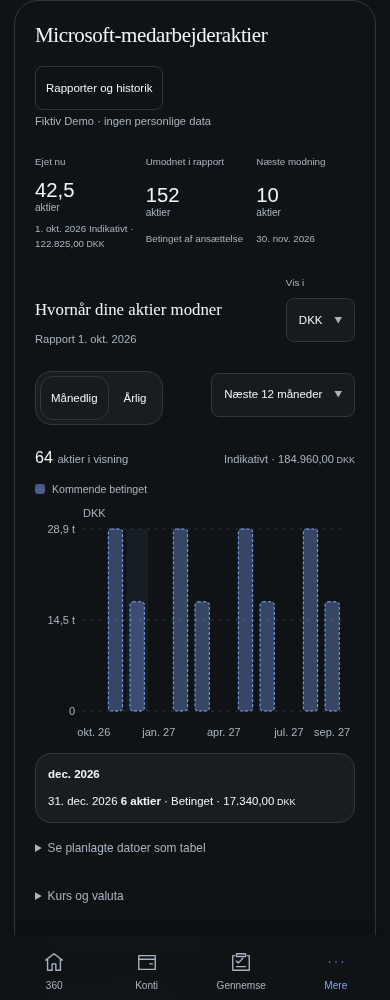
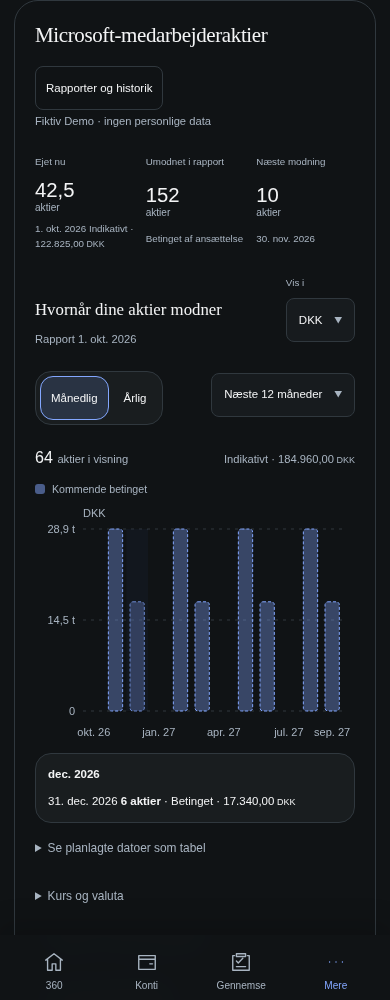
fix: preserve stock chart state and complete Demo report review fixes

Changed region(s): [[0.0923, 0.372, 0.2769, 0.434], [0.3077, 0.62, 0.3385, 0.651]]

diff --git a/src/Banking.Api/wwwroot/employee-stock-ui.js b/src/Banking.Api/wwwroot/employee-stock-ui.js
@@ -24,22 +24,22 @@ export function employeeStockQuote(snapshot,now=Date.now()){
  return {price:q.price,observedAt:new Date(observed).toISOString(),retrievedAt:new Date(retrieved).toISOString(),delayMinutes:q.quoteDelayMinutes??null};
 }
 export function mountEmployeeStockPreview(root,{S,e,money,date,today,api}){
- const L=(en,da)=>S.lang==='da'?da:en,seq=S.seq,mode=S.mode,controller=new AbortController();let report=null,request=0;
+ const L=(en,da)=>S.lang==='da'?da:en,seq=S.seq,mode=S.mode,controller=new AbortController();let report=null,request=0,disposeReport=()=>{};
  const current=()=>root.isConnected&&S.seq===seq&&S.mode===mode&&!controller.signal.aborted;
  const number=n=>n==null?'—':new Intl.NumberFormat(S.lang==='da'?'da-DK':'en-GB',{maximumFractionDigits:8}).format(n);
 
  root.className='employee-stock loan-card';root.innerHTML=`<h2>${L('Microsoft employee shares','Microsoft-medarbejderaktier')}</h2><p>${L('Upcoming vesting is conditional on continued employment. Historical vesting does not establish current holdings.','Kommende modning afhænger af fortsat ansættelse. Tidligere modning dokumenterer ikke den aktuelle beholdning.')}</p>${mode==='Live'&&S.owner?`<label for="employee-stock-file">${L('Preview stock export · .xlsx','Gennemgå aktieeksport · .xlsx')}</label><input id="employee-stock-file" type="file" accept=".xlsx,application/vnd.openxmlformats-officedocument.spreadsheetml.sheet"><p>${L('Preview only. This file and its values are not saved. Nothing is added to your wealth.','Kun gennemgang. Filen og dens værdier gemmes ikke. Intet lægges til din formue.')}</p><p id="employee-stock-status" role="status" aria-live="polite"></p><div id="employee-stock-result"></div>`:`<p>${L('Private workbook preview is available in Dan’s workspace. No employee-share imports in Demo yet.','Privat filgennemgang er tilgængelig i Dans arbejdsområde. Der er endnu ingen medarbejderaktier importeret i Demo.')}</p>`}`;
  const input=root.querySelector('#employee-stock-file'),status=root.querySelector('#employee-stock-status'),out=root.querySelector('#employee-stock-result');
  if(input)input.onchange=async()=>{
-  const file=input.files?.[0],id=++request;report=null;out.replaceChildren();status.textContent='';if(!file)return;
+  const file=input.files?.[0],id=++request;disposeReport();disposeReport=()=>{};report=null;out.replaceChildren();status.textContent='';if(!file)return;
   if(file.size>8*1024*1024||!file.name.toLowerCase().endsWith('.xlsx')){status.textContent=L('Choose an .xlsx file no larger than 8 MiB.','Vælg en .xlsx-fil på højst 8 MiB.');input.value='';return;}
   status.textContent=L('Reading the three source sheets…','Læser de tre kildeark…');input.disabled=true;
-  try{const result=await api('employee-stocks/preview',{method:'POST',headers:{'Content-Type':'application/vnd.openxmlformats-officedocument.spreadsheetml.sheet'},body:file,signal:controller.signal});if(!current()||id!==request)return;report=result;renderEmployeeStockReport(out,report,{S,e,money,date,today,api});status.textContent=L('Preview ready. No financial values saved.','Gennemgang klar. Ingen finansielle værdier gemt.');}
+  try{const result=await api('employee-stocks/preview',{method:'POST',headers:{'Content-Type':'application/vnd.openxmlformats-officedocument.spreadsheetml.sheet'},body:file,signal:controller.signal});if(!current()||id!==request)return;report=result;disposeReport=renderEmployeeStockReport(out,report,{S,e,money,date,today,api});status.textContent=L('Preview ready. No financial values saved.','Gennemgang klar. Ingen finansielle værdier gemt.');}
   catch(err){if(current()&&id===request&&!err.stale&&err.name!=='AbortError')status.textContent=L('The workbook could not be previewed. Check the supported three-sheet export.','Filen kunne ikke gennemgås. Kontrollér eksporten med de tre understøttede ark.')+' '+(/^[A-Z_]{1,80}$/.test(err.code||'')?err.code:'');}
   finally{if(current()&&id===request){input.disabled=false;input.value='';}}
  };
 
- return ()=>{request++;controller.abort();report=null;root.replaceChildren();};
+ return ()=>{request++;controller.abort();disposeReport();report=null;root.replaceChildren();};
 }
 
 // Calendar bins retain empty months and actual delivery dates. Viewing never changes ownership.
@@ -62,7 +62,7 @@ export function stockTimeline(report,cutoff,{period='month',range='12',history=f
 
 // Shared dashboard for private and independently synthetic retained reports.
 export function renderEmployeeStockReport(out,report,{S,e,money,date,today,api},initial={}){
- const seq=S.seq,L=(en,da)=>S.lang==='da'?da:en,locale=S.lang==='da'?'da-DK':'en-GB';
+ const seq=S.seq,mode=S.mode,L=(en,da)=>S.lang==='da'?da:en,locale=S.lang==='da'?'da-DK':'en-GB';
  const number=n=>n==null?'—':new Intl.NumberFormat(locale,{maximumFractionDigits:8}).format(n);
  const sum=key=>report.grants.reduce((s,g)=>s+g[key],0),source=s=>s.sheet+' · '+L('row','række')+' '+s.row;
  const next=upcomingStockEvents(report,initial.cutoff||today()),first=next[0]?.date,nextQty=next.filter(x=>x.date===first).reduce((s,x)=>s+x.conditionalShares,0);
@@ -76,21 +76,26 @@ export function renderEmployeeStockReport(out,report,{S,e,money,date,today,api},
  <details id="stock-past"><summary>${L('Past vesting and source grants','Tidligere modning og tildelinger')}</summary><p>${L('Vested history is not held now. Gross deliveries, tax withholding and net delivery are separate. Total Transacted is not a sale.','Modningshistorik er ikke ejet nu. Bruttolevering, skattetræk og nettolevering er adskilt. Total Transacted er ikke et salg.')}</p>${table([L('Source','Kilde'),L('Date / grant','Dato / tildeling'),L('Gross / net shares','Brutto- / nettoaktier'),L('Historical FMV · USD/profile','Historisk markedsværdi · USD/profil')],report.transactions.map(t=>[source(t.source),date(t.date)+' · '+(report.grants.findIndex(g=>g.key===t.grantKey)+1),number(t.quantity)+' / '+number(t.netShares),t.historicalFairMarketValue]),3)}${table([L('Grant / source','Tildeling / kilde'),L('Source dates','Kildedatoer'),L('Awarded / past vested / unvested','Tildelt / tidligere modnet / umodnet'),L('Grant price · not current quote','Tildelingskurs · ikke aktuel kurs')],report.grants.map((g,i)=>[(i+1)+' · '+g.type+' · '+source(g.source),date(g.awardDate),[g.awarded,g.vested,g.unvested].map(number).join(' / '),g.grantPrice]),3)}</details>
  <details id="stock-warnings"><summary>${L('Source & review notes','Kilde og gennemgang')} (${report.warnings.length})</summary><p>${L('Source report date: not reported.','Kildens rapportdato: ikke oplyst.')} ${initial.reportAsOf?L('Owner-confirmed report date','Ejerbekræftet rapportdato')+': '+date(initial.reportAsOf):L('Date awaiting review','Dato afventer gennemgang')}</p><ul>${report.warnings.map(w=>`<li>${e(messages[w.code]||L('Reconciliation needs review','Afstemning kræver gennemgang'))}${w.source?' · '+e(source(w.source)):''}</li>`).join('')}</ul>${next.reduce((s,x)=>s+x.conditionalShares,0)!==sum('unvested')?`<p>${L('Upcoming schedule and source unvested differ. Review the report date and unmatched deliveries; no clock-based rollforward.','Kommende plan og kildens umodnede afviger. Gennemgå rapportdato og uafstemte leveringer; ingen fremførsel efter kalenderen.')}</p>`:''}<p>${L('Parser','Parser')}: ${e(report.parserVersion)}</p></details>`;
  for(const [id,value] of Object.entries({'stock-price':initial.priceUsd,'stock-rate':initial.dkkPerUsd,'stock-observed':initial.priceAsOf,'stock-price-source':initial.priceSource,'stock-fx-observed':initial.fxAsOf,'stock-fx-source':initial.fxSource}))if(value!=null)out.querySelector('#'+id).value=value;
- let period='month';
+ let period='month',selectedKey=null,disposed=false,lastWidth=0,resizeFrame=0;
+ const current=()=>!disposed&&out.isConnected&&S.seq===seq&&S.mode===mode;
  out.querySelectorAll('[data-period]').forEach(el=>el.onclick=()=>{period=el.dataset.period;out.querySelectorAll('[data-period]').forEach(b=>b.setAttribute('aria-pressed',String(b===el)));draw();});
  out.querySelectorAll('#stock-valuation input').forEach(el=>el.addEventListener('input',draw));
  out.querySelector('#stock-currency').onchange=draw;out.querySelector('#stock-range').onchange=draw;
  out.querySelector('#stock-live-quote')?.addEventListener('click',async ev=>{const button=ev.currentTarget,status=out.querySelector('#stock-quote-status');button.disabled=true;
-  try{const result=employeeStockQuote(await api('markets/chart?symbol=MSFT&range=1d'));if(!out.isConnected||S.seq!==seq)return;
+  try{const result=employeeStockQuote(await api('markets/chart?symbol=MSFT&range=1d'));if(!current())return;
    if(!result){status.textContent=L('Quote unavailable. The schedule remains usable.','Kurs utilgængelig. Planen kan stadig bruges.');return;}
    out.querySelector('#stock-price').value=result.price;out.querySelector('#stock-observed').value=new Intl.DateTimeFormat('en-CA',{timeZone:'Europe/Copenhagen',year:'numeric',month:'2-digit',day:'2-digit'}).format(new Date(result.observedAt));
    out.querySelector('#stock-price-source').value='Saxo LIVE · '+result.observedAt+' · '+(result.delayMinutes==null?'delay unknown':result.delayMinutes+' min reported delay');
    status.textContent=L('Indicative quote','Indikativ kurs')+': '+result.observedAt+' · '+L('Retrieved','Hentet')+': '+result.retrievedAt+' · '+(result.delayMinutes==null?L('Delay unknown','Ukendt forsinkelse'):result.delayMinutes+' min')+'. '+L('View only; not saved. FX needs its own source.','Kun visning; ikke gemt. Valuta kræver egen kilde.');draw();
-  }catch(err){if(out.isConnected&&S.seq===seq&&!err.stale)status.textContent=L('Quote unavailable. Use a dated manual price or leave value unknown.','Kurs utilgængelig. Brug en dateret manuel kurs, eller lad værdien være ukendt.');}
-  finally{if(out.isConnected&&S.seq===seq)button.disabled=false;}
+  }catch(err){if(current()&&!err.stale)status.textContent=L('Quote unavailable. Use a dated manual price or leave value unknown.','Kurs utilgængelig. Brug en dateret manuel kurs, eller lad værdien være ukendt.');}
+  finally{if(current())button.disabled=false;}
  });
  function draw(){
+  if(disposed)return;
   const field=id=>out.querySelector('#stock-'+id),chart=field('chart'),cutoff=field('cutoff');
+  lastWidth=chart.clientWidth;
+  const focusedBin=chart.querySelector('[data-bin]:focus')?.getAttribute?.('data-bin'),tableOpen=chart.querySelector('.stock-schedule-table')?.open;
+  const tableFocus=chart.querySelector('.stock-schedule-table summary:focus')?'.stock-schedule-table summary':chart.querySelector('.stock-table-wrap:focus')?'.stock-table-wrap':null;
   if(!cutoff.value||!cutoff.validity.valid){chart.innerHTML='<p role="alert">'+L('Choose a valid viewing cutoff.','Vælg en gyldig visningsdato.')+'</p>';return;}
   const valid=(value,day,src)=>value.validity.valid&&day.value&&day.validity.valid&&src.validity.valid&&src.value.trim().length>0&&src.value.length<=120;
   const price=valid(field('price'),field('observed'),field('price-source'))?field('price').valueAsNumber:NaN,rate=valid(field('rate'),field('fx-observed'),field('fx-source'))?field('rate').valueAsNumber:NaN;
@@ -106,8 +111,18 @@ export function renderEmployeeStockReport(out,report,{S,e,money,date,today,api},
   const allQty=bins.reduce((s,b)=>s+b.conditional+b.history,0),tickEvery=Math.max(1,Math.ceil(bins.length/(W<500?5:10)));
   chart.innerHTML=`<div class="stock-chart-total"><strong>${number(allQty)} <span>${L('shares in view','aktier i visning')}</span></strong><span>${currency==='shares'?L('Select a bar for exact dates','Vælg en søjle for præcise datoer'):known?L('Indicative','Indikativt')+' · '+money(converted(allQty),currency):L('Valuation unknown · showing shares','Værdi ukendt · viser aktier')}</span></div><div class="stock-legend"><span class="stock-legend-conditional">${L('Conditional upcoming','Kommende betinget')}</span>${range==='history'?`<span class="stock-legend-history">${L('Vested history · not held now','Modningshistorik · ikke ejet nu')}</span>`:''}</div><svg class="stock-timeline" viewBox="0 0 ${W} ${H}" role="group" aria-label="${L('Vesting by calendar date','Modning efter kalenderdato')}">${[0,.5,1].map(r=>`<line class="stock-grid" x1="${left}" x2="${W-right}" y1="${top+plotH*(1-r)}" y2="${top+plotH*(1-r)}"/><text class="stock-axis" x="${left-8}" y="${top+plotH*(1-r)+4}" text-anchor="end">${e(new Intl.NumberFormat(locale,{notation:'compact',maximumFractionDigits:1}).format(max*r))}</text>`).join('')}${bins.map((b,i)=>{const x=left+i*step+(step-bar)/2,h=value(b.history)/max*plotH,c=value(b.conditional)/max*plotH;return `<g class="stock-bar" data-bin="${i}" role="button" tabindex="${b.events.length&&bins.slice(0,i).every(x=>!x.events.length)?0:-1}" aria-label="${e((model.period==='month'?monthLabel(b.date)+' ':'')+b.date.slice(0,4)+': '+label(b.conditional+b.history))}" aria-pressed="false"><rect class="stock-hit" x="${left+i*step}" y="${top}" width="${step}" height="${plotH}"/><rect class="stock-delivered" x="${x}" y="${top+plotH-h}" width="${bar}" height="${h}" rx="3"/><rect class="stock-conditional" x="${x}" y="${top+plotH-h-c}" width="${bar}" height="${c}" rx="3"/>${i%tickEvery===0||i===bins.length-1?`<text class="stock-axis" text-anchor="middle" x="${left+(i+.5)*step}" y="${H-17}">${e(tick(b))}</text>`:''}</g>`;}).join('')}<text class="stock-axis" x="${left}" y="12">${unit==='shares'?L('Shares','Aktier'):unit}</text></svg><div id="stock-point" class="stock-point" role="status" aria-live="polite"></div><details class="stock-schedule-table"><summary>${L('View scheduled dates as a table','Se planlagte datoer som tabel')}</summary>${table([L('Date','Dato'),L('Shares','Aktier'),L('State','Status'),currency==='shares'?L('Grant','Tildeling'):L('Illustrative value','Illustrativ værdi')],model.events.map(x=>[date(x.date),number(x.shares),x.kind==='history'?L('Vested history','Modningshistorik'):L('Conditional','Betinget'),currency==='shares'?report.grants.findIndex(g=>g.key===x.grantKey)+1:converted(x.shares)==null?'—':number(converted(x.shares))+' '+currency]))}</details>`;
   const buttons=[...chart.querySelectorAll('[data-bin]')];
-  function select(i,focus=false){const b=bins[i];if(!b)return;buttons.forEach((button,n)=>{button.setAttribute('aria-pressed',String(n===i));button.setAttribute('tabindex',n===i?'0':'-1');});if(focus)buttons[i]?.focus();chart.querySelector('#stock-point').innerHTML=b.events.length?`<strong>${e(model.period==='year'?b.key:monthLabel(b.date)+' '+b.date.slice(0,4))}</strong><div>${b.events.map(x=>`<span>${e(date(x.date))} <b>${number(x.shares)} ${L('shares','aktier')}</b> · ${x.kind==='history'?L('Vested history','Modningshistorik'):L('Conditional','Betinget')}${currency==='shares'?'':' · '+(converted(x.shares)==null?'—':money(converted(x.shares),currency))}</span>`).join('')}</div>`:`<span>${e(model.period==='year'?b.key:monthLabel(b.date)+' '+b.date.slice(0,4))} · ${L('No source events','Ingen kildehændelser')}</span>`;}
-  buttons.forEach((button,i)=>{button.onclick=()=>select(i);button.onkeydown=ev=>{let n=ev.key==='ArrowRight'?i+1:ev.key==='ArrowLeft'?i-1:ev.key==='Home'?0:ev.key==='End'?bins.length-1:null;if(n!==null){ev.preventDefault();select(Math.max(0,Math.min(bins.length-1,n)),true);}else if(ev.key==='Enter'||ev.key===' '){ev.preventDefault();select(i);}};});select(Math.max(0,bins.findIndex(b=>b.events.length)));
+  function select(i,focus=false){const b=bins[i];if(!b)return;selectedKey=b.key;buttons.forEach((button,n)=>{button.setAttribute('aria-pressed',String(n===i));button.setAttribute('tabindex',n===i?'0':'-1');});if(focus)buttons[i]?.focus({preventScroll:true});chart.querySelector('#stock-point').innerHTML=b.events.length?`<strong>${e(model.period==='year'?b.key:monthLabel(b.date)+' '+b.date.slice(0,4))}</strong><div>${b.events.map(x=>`<span>${e(date(x.date))} <b>${number(x.shares)} ${L('shares','aktier')}</b> · ${x.kind==='history'?L('Vested history','Modningshistorik'):L('Conditional','Betinget')}${currency==='shares'?'':' · '+(converted(x.shares)==null?'—':money(converted(x.shares),currency))}</span>`).join('')}</div>`:`<span>${e(model.period==='year'?b.key:monthLabel(b.date)+' '+b.date.slice(0,4))} · ${L('No source events','Ingen kildehændelser')}</span>`;}
+  buttons.forEach((button,i)=>{button.onclick=()=>select(i);button.onkeydown=ev=>{let n=ev.key==='ArrowRight'?i+1:ev.key==='ArrowLeft'?i-1:ev.key==='Home'?0:ev.key==='End'?bins.length-1:null;if(n!==null){ev.preventDefault();select(Math.max(0,Math.min(bins.length-1,n)),true);}else if(ev.key==='Enter'||ev.key===' '){ev.preventDefault();select(i);}};});const selected=bins.findIndex(b=>b.key===selectedKey);select(selected>=0?selected:Math.max(0,bins.findIndex(b=>b.events.length)));
+  if(tableOpen)chart.querySelector('.stock-schedule-table').open=true;
+  if(focusedBin!=null)buttons[Number(focusedBin)]?.focus({preventScroll:true});else if(tableFocus)chart.querySelector(tableFocus)?.focus?.({preventScroll:true});
  }
  draw();
+ // Observe the chart container: Codex side panels and page layout can resize without a window event.
+ const chart=out.querySelector('#stock-chart');
+ const resize=typeof ResizeObserver==='undefined'?null:new ResizeObserver(()=>{
+  if(!current()||chart.clientWidth===lastWidth||resizeFrame)return;
+  resizeFrame=requestAnimationFrame(()=>{resizeFrame=0;if(current()&&chart.clientWidth!==lastWidth)draw();});
+ });
+ resize?.observe(chart);
+ return ()=>{disposed=true;resize?.disconnect();if(resizeFrame)cancelAnimationFrame(resizeFrame);resizeFrame=0;};
 }

diff --git a/src/Banking.Api/wwwroot/employee-stock-history-ui.js b/src/Banking.Api/wwwroot/employee-stock-history-ui.js
@@ -1,7 +1,7 @@
 import {renderEmployeeStockReport,stockIllustration} from './employee-stock-ui.js';
 
 export function mountEmployeeStockHistory(root,{S,e,money,date,today,api,post,navigate,leave,errorText}){
- const seq=S.seq,mode=S.mode,L=(en,da)=>S.lang==='da'?da:en,controller=new AbortController();let selected=null,offset=0,request=0,selection=0,historyRequest=0;
+ const seq=S.seq,mode=S.mode,L=(en,da)=>S.lang==='da'?da:en,controller=new AbortController();let selected=null,offset=0,request=0,selection=0,historyRequest=0,disposeReport=()=>{};
  const current=()=>root.isConnected&&S.seq===seq&&S.mode===mode&&!controller.signal.aborted;
  // Each selection intent or review edit invalidates older same-page responses.
  const active=id=>current()&&id===selection;
@@ -20,7 +20,7 @@ export function mountEmployeeStockHistory(root,{S,e,money,date,today,api,post,na
  if(input)input.onchange=async()=>{
   const file=input.files?.[0];if(!file)return;if(S.saving){input.value='';return;}const uploadRequest=++request,id=await beginSelection();if(id===null){if(uploadRequest===request)input.value='';return;}
   if(file.size>8*1024*1024||!file.name.toLowerCase().endsWith('.xlsx')){status.textContent=L('Choose an .xlsx file no larger than 8 MiB.','Vælg en .xlsx-fil på højst 8 MiB.');input.value='';return;}
-  root.querySelector('#stock-receipt').replaceChildren();selected=null;
+  disposeReport();disposeReport=()=>{};root.querySelector('#stock-receipt').replaceChildren();selected=null;
   await busy(input,async()=>{status.textContent=L('Retaining the original and reading its three sheets…','Gemmer originalen og læser de tre ark…');const data=await read('uploads',{method:'POST',headers:{'Content-Type':'application/vnd.openxmlformats-officedocument.spreadsheetml.sheet'},body:file});if(active(id)&&!S.dirty){show(data,id);await history();if(active(id))status.textContent=L('Original retained. Financial approval is separate.','Original bevaret. Finansiel godkendelse sker separat.');}},id);if(current()&&uploadRequest===request)input.value='';
  };
  const number=n=>n==null?'—':new Intl.NumberFormat(S.lang==='da'?'da-DK':'en-GB',{maximumFractionDigits:8}).format(n);
@@ -32,16 +32,17 @@ export function mountEmployeeStockHistory(root,{S,e,money,date,today,api,post,na
   if(selected===null&&selection===0&&!S.dirty&&!S.saving&&data.current?.uploadId){const id=++selection,latest=await read('uploads/'+data.current.uploadId);if(active(id)&&!S.dirty&&!S.saving)show(latest,id);}
   if(!current()||listRequest!==historyRequest)return;
   root.querySelector('#stock-history-values').innerHTML=`<p>${L('Approved report dates only. No interpolation or inferred return. Holding declarations and source conditional awards are separate.','Kun godkendte rapportdatoer. Ingen interpolation eller udledt afkast. Beholdningserklæringer og kildens betingede aktier er adskilt.')}</p><div class="stock-table-wrap" tabindex="0" role="region" aria-label="${L('Approved history','Godkendt historik')}"><table class="stock-table"><thead><tr><th>${L('Report date','Rapportdato')}</th><th>${L('Declared held shares','Erklærede ejede aktier')}</th><th>${L('Source unvested','Kildens umodnede')}</th></tr></thead><tbody>${data.development.map(d=>`<tr><td>${date(d.asOf)}</td><td>${number(d.currentHeldShares)} · ${date(d.holdingAsOf)}</td><td>${number(d.reportedUnvested)}</td></tr>`).join('')}</tbody></table></div>${data.developmentHasMore?`<p>${L('Older development points are available through their upload receipts.','Ældre udviklingspunkter kan ses via deres uploadposter.')}</p>`:''}`;
-  root.querySelector('#stock-history-list').innerHTML=`<p>${data.total} ${L('upload receipts · originals retained','uploadposter · originaler bevaret')}</p>${data.items.map(u=>`<button class="pension-history-row" data-stock-upload="${e(u.id)}"><span>${date(u.uploadedAt)} · ${e(label[u.status]||u.status)}</span><small>${u.snapshotId?L('Approved report','Godkendt rapport'):L('Awaiting review','Afventer gennemgang')}</small></button>`).join('')}`;
+  const reportDates=new Map(data.development.map(d=>[d.id,d.asOf]));
+  root.querySelector('#stock-history-list').innerHTML=`<p>${data.total} ${L('upload receipts · originals retained','uploadposter · originaler bevaret')}</p>${data.items.map(u=>{const reportDate=reportDates.get(u.snapshotId);return `<button class="pension-history-row" data-stock-upload="${e(u.id)}"><span>${reportDate?L('Report','Rapport')+' '+date(reportDate):L('Uploaded','Uploadet')+' '+date(u.uploadedAt)}</span><small>${reportDate?L('Uploaded','Uploadet')+' '+date(u.uploadedAt)+' · ':''}${e(label[u.status]||u.status)}</small></button>`;}).join('')}`;
   root.querySelectorAll('[data-stock-upload]').forEach(b=>b.onclick=()=>choose(b,b.dataset.stockUpload));
   const prev=root.querySelector('#stock-newer'),next=root.querySelector('#stock-older');prev.disabled=offset===0;next.disabled=offset+50>=data.total;
   prev.onclick=()=>{if(!S.saving)return busy(prev,async()=>{offset=Math.max(0,offset-50);await history();});};next.onclick=()=>{if(!S.saving)return busy(next,async()=>{offset+=50;await history();});};
  }
- function show(data,id){if(!active(id))return;selected=data;const target=root.querySelector('#stock-receipt'),readOnly=mode==='Demo'||data.status==='Approved'||data.status==='Rejected',r=data.accepted?.review;let correction=null;
+ function show(data,id){if(!active(id))return;disposeReport();disposeReport=()=>{};selected=data;const target=root.querySelector('#stock-receipt'),readOnly=mode==='Demo'||data.status==='Approved'||data.status==='Rejected',r=data.accepted?.review;let correction=null;
   target.innerHTML=`${!readOnly?`<p class="stock-review-notice">${L('Original retained · review required before saving values','Original bevaret · gennemgang kræves før værdier gemmes')}</p>`:''}<div id="stock-source-facts"></div><details id="stock-report-details"><summary>${L('Original & report details','Original og rapportoplysninger')}</summary><p>${e(label[data.status]||data.status)} · ${L('Uploaded','Uploadet')}: ${date(data.uploadedAt)}</p><button id="stock-original" type="button">${L('Download original workbook','Hent original regnearksfil')}</button>${data.accepted?`<p>${L('Approved report date','Godkendt rapportdato')}: ${date(r.reportAsOf)} · ${L('Holding declaration date','Beholdningens erklæringsdato')}: ${date(r.holdingAsOf)} · ${L('Declared currently held shares','Erklærede aktuelt ejede aktier')}: ${number(r.currentHeldShares)} · ${r.archived?L('Employment section archived','Ansættelsesafsnit arkiveret'):L('Conditional vesting while employed','Betinget modning under ansættelse')}</p>`:''}<small>${L('Parser','Parser')}: ${e(data.parserVersion)} · ${number(data.byteLength)} bytes</small></details>${data.existingApproval&&!readOnly?`<p>${L('This original already has an approval. Reuse it without another financial point, or review a new declaration.','Denne original har allerede en godkendelse. Genbrug den uden et nyt finansielt datapunkt, eller gennemgå en ny erklæring.')}</p><button id="stock-reuse" type="button">${L('Link receipt to existing approval','Knyt uploadpost til eksisterende godkendelse')}</button>`:''}${data.report&&!readOnly?`<details id="stock-review" open><summary>${L('Review & approve','Gennemgå og godkend')}</summary>${reviewForm(data)}</details>`:data.errorCode?`<p role="alert">${e(data.errorCode)}</p>`:''}${!readOnly?`<div class="pension-tools"><button type="button" id="stock-retry">${L('Retry extraction of this original','Prøv udtræk af denne original igen')}</button><button type="button" id="stock-reject">${L('Reject financial import · retain original','Afvis finansiel import · bevar original')}</button></div>`:''}`;
   if(data.report){const facts=target.querySelector('#stock-source-facts');
-   if(r?.archived){facts.innerHTML='<details><summary>'+L('Archived source schedule · review only','Arkiveret kildeplan · kun gennemgang')+'</summary><p>'+L('This is retained source history. No active future vesting is inferred after archiving.','Dette er bevaret kildehistorik. Aktiv fremtidig modning udledes ikke efter arkivering.')+'</p><div id="stock-archived-facts"></div></details>';renderEmployeeStockReport(facts.querySelector('#stock-archived-facts'),data.report,{S,e,money,date,today,api},{...r,cutoff:r.reportAsOf,historicalCutoff:true});}
-   else renderEmployeeStockReport(facts,data.report,{S,e,money,date,today,api},{...r,cutoff:today()});
+   if(r?.archived){facts.innerHTML='<details><summary>'+L('Archived source schedule · review only','Arkiveret kildeplan · kun gennemgang')+'</summary><p>'+L('This is retained source history. No active future vesting is inferred after archiving.','Dette er bevaret kildehistorik. Aktiv fremtidig modning udledes ikke efter arkivering.')+'</p><div id="stock-archived-facts"></div></details>';disposeReport=renderEmployeeStockReport(facts.querySelector('#stock-archived-facts'),data.report,{S,e,money,date,today,api},{...r,cutoff:r.reportAsOf,historicalCutoff:true});}
+   else disposeReport=renderEmployeeStockReport(facts,data.report,{S,e,money,date,today,api},{...r,cutoff:today()});
   }
   target.querySelector('#stock-original').onclick=b=>busy(b.currentTarget,()=>download(data.id));
   target.querySelector('#stock-reuse')?.addEventListener('click',async ev=>{const button=ev.currentTarget,intent=await beginSelection();if(intent===null)return;await busy(button,async()=>{await send('uploads/'+data.id+'/link',{version:data.version,snapshotId:data.existingApproval.id,confirm:true});const next=await read('uploads/'+data.id);if(active(intent)&&!S.dirty){show(next,intent);await history();if(active(intent))status.textContent=L('Receipt linked. Existing approval reused; no extra financial point.','Uploadpost tilknyttet. Eksisterende godkendelse genbrugt; intet ekstra finansielt datapunkt.');}},intent);});
@@ -70,5 +71,5 @@ export function mountEmployeeStockHistory(root,{S,e,money,date,today,api,post,na
  }
  async function download(id){const mode=S.mode,response=await fetch('/api/'+prefix+'uploads/'+encodeURIComponent(id)+'/original',{credentials:'same-origin',cache:'no-store',headers:{'X-Banking-Client':'web','X-Banking-Mode':mode},signal:controller.signal});if(!current()||response.headers.get('X-Banking-Mode')!==mode)return;if(response.status===401){await api('mode');return;}if(!response.ok)throw{status:response.status,code:'STOCK_ORIGINAL_UNAVAILABLE'};const blob=await response.blob();if(!current())return;const url=URL.createObjectURL(blob),a=document.createElement('a');a.href=url;a.download='Employee-shares.xlsx';a.click();setTimeout(()=>URL.revokeObjectURL(url),1000);}
  history().catch(err=>{if(current()&&!err.stale)status.textContent=message(err);});
- return()=>{request++;selection++;controller.abort();selected=null;root.replaceChildren();};
+ return()=>{request++;selection++;controller.abort();disposeReport();selected=null;root.replaceChildren();};
 }

diff --git a/src/Banking.Api/wwwroot/wealth.css b/src/Banking.Api/wwwroot/wealth.css
@@ -250,7 +250,7 @@ button.inv-chip-button{min-height:32px;padding:4px 10px;border-color:transparent
 .stock-chart-controls{justify-content:space-between;margin:22px 0 12px}.stock-chart-controls select,.stock-unit-label select{padding:8px 12px;font-size:.82rem;width:auto}
 .stock-segments{display:flex;gap:4px;background:var(--row-alt);padding:4px;border-radius:var(--radius);border:1px solid var(--line)}
 .stock-segments button{border:1px solid transparent;background:transparent;padding:7px 16px;font-size:.82rem;border-radius:calc(var(--radius) - 3px)}
-.stock-segments button[aria-pressed=true]{background:var(--surface);border-color:var(--line);color:var(--ink)}
+.stock-segments button[aria-pressed=true]{background:color-mix(in srgb,var(--accent) 16%,transparent);border-color:var(--accent);color:var(--ink)}
 .stock-chart-total{display:flex;justify-content:space-between;align-items:baseline;gap:12px;flex-wrap:wrap;padding:8px 0 12px}.stock-chart-total strong{font-size:1.15rem;font-weight:500}.stock-chart-total strong>span{font-size:.8rem;font-weight:400;color:var(--muted)}.stock-chart-total>span{color:var(--muted);font-size:.8rem}
 .stock-legend{display:flex;gap:18px;flex-wrap:wrap;font-size:.76rem;color:var(--muted);margin-bottom:8px}.stock-legend span{display:flex;align-items:center;gap:7px}.stock-legend span:before{content:'';width:10px;height:10px;border-radius:3px;display:inline-block;background:var(--accent)}.stock-legend-conditional:before{opacity:.5}.stock-legend-history:before{background:var(--ink)!important}
 .stock-timeline{display:block;width:100%;height:auto;overflow:visible;min-height:170px}

diff --git a/src/Banking.Api/Providers/DemoEmployeeStockWorkbook.cs b/src/Banking.Api/Providers/DemoEmployeeStockWorkbook.cs
@@ -44,7 +44,7 @@ public static class DemoEmployeeStockWorkbook
         parts["xl/sharedStrings.xml"]=new XElement(n+"sst",strings.Select(s=>new XElement(n+"si",new XElement(n+"t",s)))).ToString();
         parts["_rels/.rels"]=$"<Relationships xmlns='{rel}'><Relationship Id='r1' Type='{dr}/officeDocument' Target='xl/workbook.xml'/></Relationships>";
         parts["xl/workbook.xml"]=$"<workbook xmlns='{ns}' xmlns:r='{dr}'><sheets>"+string.Concat(EmployeeStockWorkbook.Sheets.Select((s,i)=>$"<sheet name='{s}' sheetId='{i+1}' r:id='s{i+1}'/>"))+"</sheets></workbook>";
-        parts["xl/_rels/workbook.xml.rels"]=$"<Relationships xmlns='{rel}'>"+string.Concat(Enumerable.Range(1,3).Select(i=>$"<Relationship Id='s{i}' Type='{dr}/worksheet' Target='worksheets/sheet{i}.xml'/>"))+"</Relationships>";
+        parts["xl/_rels/workbook.xml.rels"]=$"<Relationships xmlns='{rel}'>"+string.Concat(Enumerable.Range(1,3).Select(i=>$"<Relationship Id='s{i}' Type='{dr}/worksheet' Target='worksheets/sheet{i}.xml'/>"))+$"<Relationship Id='strings' Type='{dr}/sharedStrings' Target='sharedStrings.xml'/></Relationships>";
         parts["[Content_Types].xml"]="<Types xmlns='http://schemas.openxmlformats.org/package/2006/content-types'><Default Extension='rels' ContentType='application/vnd.openxmlformats-package.relationships+xml'/><Default Extension='xml' ContentType='application/xml'/><Override PartName='/xl/workbook.xml' ContentType='application/vnd.openxmlformats-officedocument.spreadsheetml.sheet.main+xml'/><Override PartName='/xl/sharedStrings.xml' ContentType='application/vnd.openxmlformats-officedocument.spreadsheetml.sharedStrings+xml'/>"+string.Concat(Enumerable.Range(1,3).Select(i=>$"<Override PartName='/xl/worksheets/sheet{i}.xml' ContentType='application/vnd.openxmlformats-officedocument.spreadsheetml.worksheet+xml'/>"))+"</Types>";
         using var output=new MemoryStream();using(var zip=new ZipArchive(output,ZipArchiveMode.Create,true))foreach(var (name,xml) in parts){var entry=zip.CreateEntry(name,CompressionLevel.Optimal);entry.LastWriteTime=new(2000,1,1,0,0,0,TimeSpan.Zero);using var writer=new StreamWriter(entry.Open(),new UTF8Encoding(false));writer.Write(xml);}return output.ToArray();
     }

diff --git a/tests/Banking.Tests/EmployeeStockDemoTests.cs b/tests/Banking.Tests/EmployeeStockDemoTests.cs
@@ -1,4 +1,6 @@
 using System.Text.Json;
+using System.IO.Compression;
+using System.Xml.Linq;
 using Banking.Api.Data;
 using Banking.Api.Providers;
 using Banking.Api.Security;
@@ -20,6 +22,11 @@ public sealed class EmployeeStockDemoTests
     public void ThreeSheetOriginalHasDeterministicReconciledSourceFactsAndVariableSchedules(string variant,int unvested,int hireVested,int annualVested)
     {
         var bytes=DemoEmployeeStockWorkbook.Create(variant);Assert.Equal(bytes,DemoEmployeeStockWorkbook.Create(variant));var r=EmployeeStockWorkbook.Parse(bytes);
+        using var zip=new ZipArchive(new MemoryStream(bytes));XNamespace rel="http://schemas.openxmlformats.org/package/2006/relationships";
+        using var relStream=zip.GetEntry("xl/_rels/workbook.xml.rels")!.Open();var relationships=XDocument.Load(relStream).Root!;
+        var shared=Assert.Single(relationships.Elements(rel+"Relationship"),x=>(string?)x.Attribute("Type")=="http://schemas.openxmlformats.org/officeDocument/2006/relationships/sharedStrings");
+        Assert.Equal("sharedStrings.xml",(string?)shared.Attribute("Target"));Assert.NotNull(zip.GetEntry("xl/"+(string?)shared.Attribute("Target")));
+        Assert.Equal(relationships.Elements().Count(),relationships.Elements().Select(x=>(string?)x.Attribute("Id")).Distinct().Count());
         Assert.Equal(2,r.Grants.Length);Assert.Equal(36,r.Schedules.Length);Assert.Equal(160,r.Grants[0].Awarded);Assert.Equal(120,r.Grants[1].Awarded);Assert.Equal(hireVested,r.Grants[0].Vested);Assert.Equal(annualVested,r.Grants[1].Vested);Assert.Equal(unvested,r.Grants.Sum(g=>g.Unvested));
         Assert.All(r.Grants,g=>{Assert.Equal(g.Awarded,g.Vested+g.Unvested);Assert.Equal(g.Awarded,r.Schedules.Where(s=>s.GrantKey==g.Key).Sum(s=>s.Shares));});
         Assert.Equal(r.Grants.Sum(g=>g.Vested),r.Transactions.Sum(t=>t.Quantity));Assert.All(r.Transactions,t=>Assert.Equal(t.Quantity,t.NetShares+t.SharesForTaxes));

diff --git a/docs/employee-stock-dashboard.md b/docs/employee-stock-dashboard.md
@@ -2,11 +2,11 @@
 
 ## Design and status — 16 October 2026
 
-Scope is `section#employee-stock-preview` on Investments. The existing scenic header, Saxo portfolio/trading selector and separate manual investments remain intact. The Accounts-aligned panel now leads with held-now, source-unvested and next-vesting quantities, followed by a calendar chart. The summary and selected point fit within one working desktop viewport. Upload/review, valuation settings, source rows, warnings, originals, employment/archive declarations and report history are collapsed behind named actions/details. Technical parser/byte information appears only in report details.
+Scope is `section#employee-stock-preview` on Investments. The existing scenic header, Saxo portfolio/trading selector and separate manual investments remain intact. The Accounts-aligned panel now leads with held-now, source-unvested and next-vesting quantities, followed by a calendar chart. The summary and selected point fit within one working desktop viewport. Upload/review, valuation settings, source rows, warnings, originals, employment/archive declarations and report history are collapsed behind named actions/details. Technical parser/byte information appears only in report details. Approved report choices show their actual report dates from the loaded canonical snapshot map, with upload dates secondary; unavailable older/noncanonical dates use a truthful Uploaded fallback without extra reads.
 
 Monthly bins retain empty calendar intervals; default is the current month plus eleven months, with events filtered inclusively from today. An optional 24-month range and all-upcoming range are available. Yearly view sums those same source events. A history option adds actual reported `StockAwardVest` transaction dates, distinguished from conditional scheduled events by separate styling and legend. Scheduled weekend dates and business-day deliveries retain their separate dates. Long histories use yearly bins rather than an unreadable monthly plot. Arrow/Home/End keys and touch select points; exact source dates/quantities and an optional illustration appear below. A collapsed keyboard-scrollable table provides an alternative.
 
-Currency/period/range/point interactions use loaded data only. USD uses the explicitly dated USD-per-share price; DKK additionally multiplies by DKK per **one USD**. Unknown or invalid assumptions keep the useful share chart and label valuation unknown. Illustrations are conditional gross values at a reviewed price, not forecasts, tax-net proceeds or current wealth. Held-now declarations remain separate from source vested history. Archiving retains originals/history and collapses the future source view; no date change creates deliveries or forfeits vested ownership.
+Container-width changes redraw the chart locally through a disposed-on-teardown ResizeObserver. Same-session 1440→390→1440 and container-only resize checks preserve monthly/yearly selection, currency, point/table focus and table-open state; rendered axis text stays at least 10 CSS px. Native-observer tracking verifies receipt/route/logout cleanup and no callbacks after route teardown. The selected period uses the shared 16% accent tint and full border. Currency/period/range/point interactions use loaded data only. USD uses the explicitly dated USD-per-share price; DKK additionally multiplies by DKK per **one USD**. Unknown or invalid assumptions keep the useful share chart and label valuation unknown. Illustrations are conditional gross values at a reviewed price, not forecasts, tax-net proceeds or current wealth. Held-now declarations remain separate from source vested history. Archiving retains originals/history and collapses the future source view; no date change creates deliveries or forfeits vested ownership.
 
 Cloud design evidence uses only independent fictional Demo DTOs generated by the real C# parser/service:
 
@@ -17,7 +17,7 @@ Cloud design evidence uses only independent fictional Demo DTOs generated by the
 
 ## Same format, isolated Demo
 
-`DemoEmployeeStockWorkbook` creates deterministic native XLSX originals with the same three ordered sheets and 12/9/67-column contracts. Names/references, grant dates, amounts and observations are invented independently. Two grants demonstrate different four-/five-year schedules, fractional withholding/net deliveries and weekend-to-business-day matching. Three report dates preserve actual approved snapshots, each with separately fictional current-holding and dated valuation declarations:
+`DemoEmployeeStockWorkbook` creates deterministic native XLSX originals with the same three ordered sheets and 12/9/67-column contracts. Names/references, grant dates, amounts and observations are invented independently. The native package includes a workbook-to-sharedStrings relationship with a resolved internal target and unique relationship IDs; all three originals also pass independent read-only openpyxl 3.1.5 checks of sheets, headers, leading zeros, dates and fractional numeric cells. No reader dependency was added to the app or CI. The native package includes a workbook-to-sharedStrings relationship with a resolved internal target and unique relationship IDs; all three originals also pass independent read-only openpyxl 3.1.5 checks of sheets, headers, leading zeros, dates and fractional numeric cells. No reader dependency was added to the app or CI. Two grants demonstrate different four-/five-year schedules, fractional withholding/net deliveries and weekend-to-business-day matching. Three report dates preserve actual approved snapshots, each with separately fictional current-holding and dated valuation declarations:
 
 | Fictional report | Held declaration | Source unvested | USD/share | DKK per USD |
 |---|---:|---:|---:|---:|
